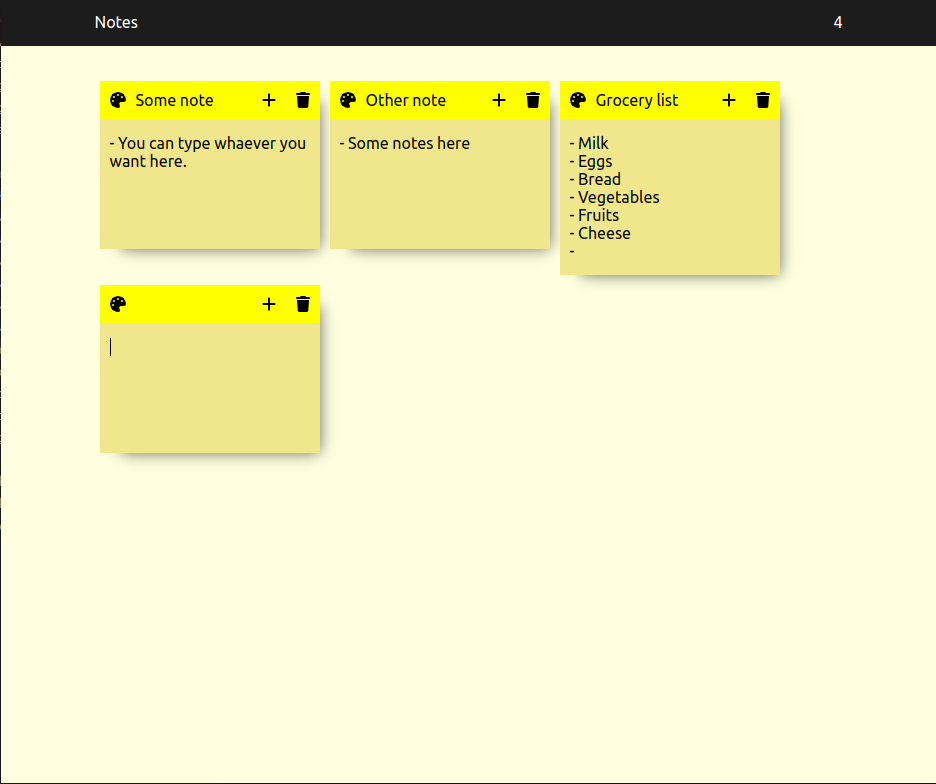
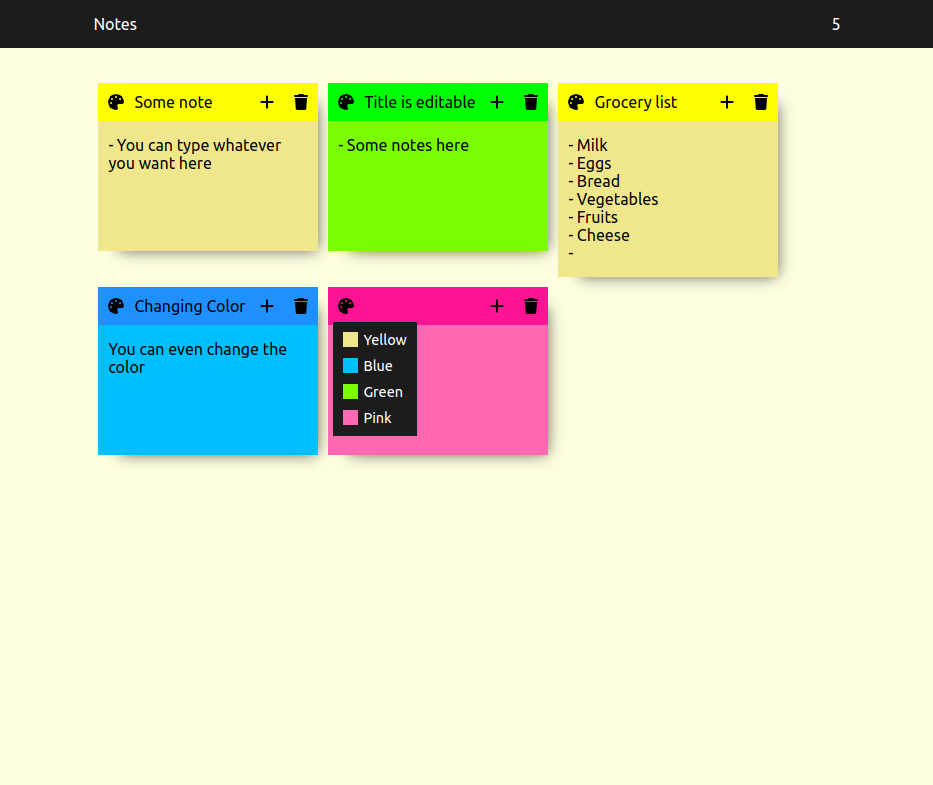
Update README

diff --git a/src/components/ColorPicker.js b/src/components/ColorPicker.js
@@ -17,6 +17,11 @@ function ColorPicker({noteCard, notesCards, updateNotesCards, setToggleColorPick
             headerBgColor: '#00FF00',
             contentBgColor: '#7CFC00',
             name:'Green'
+        },
+        {
+            headerBgColor: '#FF1493',
+            contentBgColor: '#FF69B4',
+            name:'Pink'
         }
     ];
     const listColors = COLORS.map(color => <Color color={color} noteCard={noteCard} notesCards={notesCards} updateNotesCards={updateNotesCards} setToggleColorPicker={setToggleColorPicker}/>);

diff --git a/README.md b/README.md
@@ -1,4 +1,4 @@
-(In Progress) Simple SPA that allows the user to register and manage notes. The goal of the project is apply and consolidate the basic React concepts like component creation, component hierarchy, data passing between components, basic hooks and state management.
+(In Progress) Simple SPA that allows the user to register and manage notes like post-its. The goal of the project is apply and consolidate the basic React concepts like component creation, component hierarchy, data passing between components, basic hooks and state management.
 I used react-fontawesome and CSS flexbox too.
 It is not saving data on a data base for now.
 
